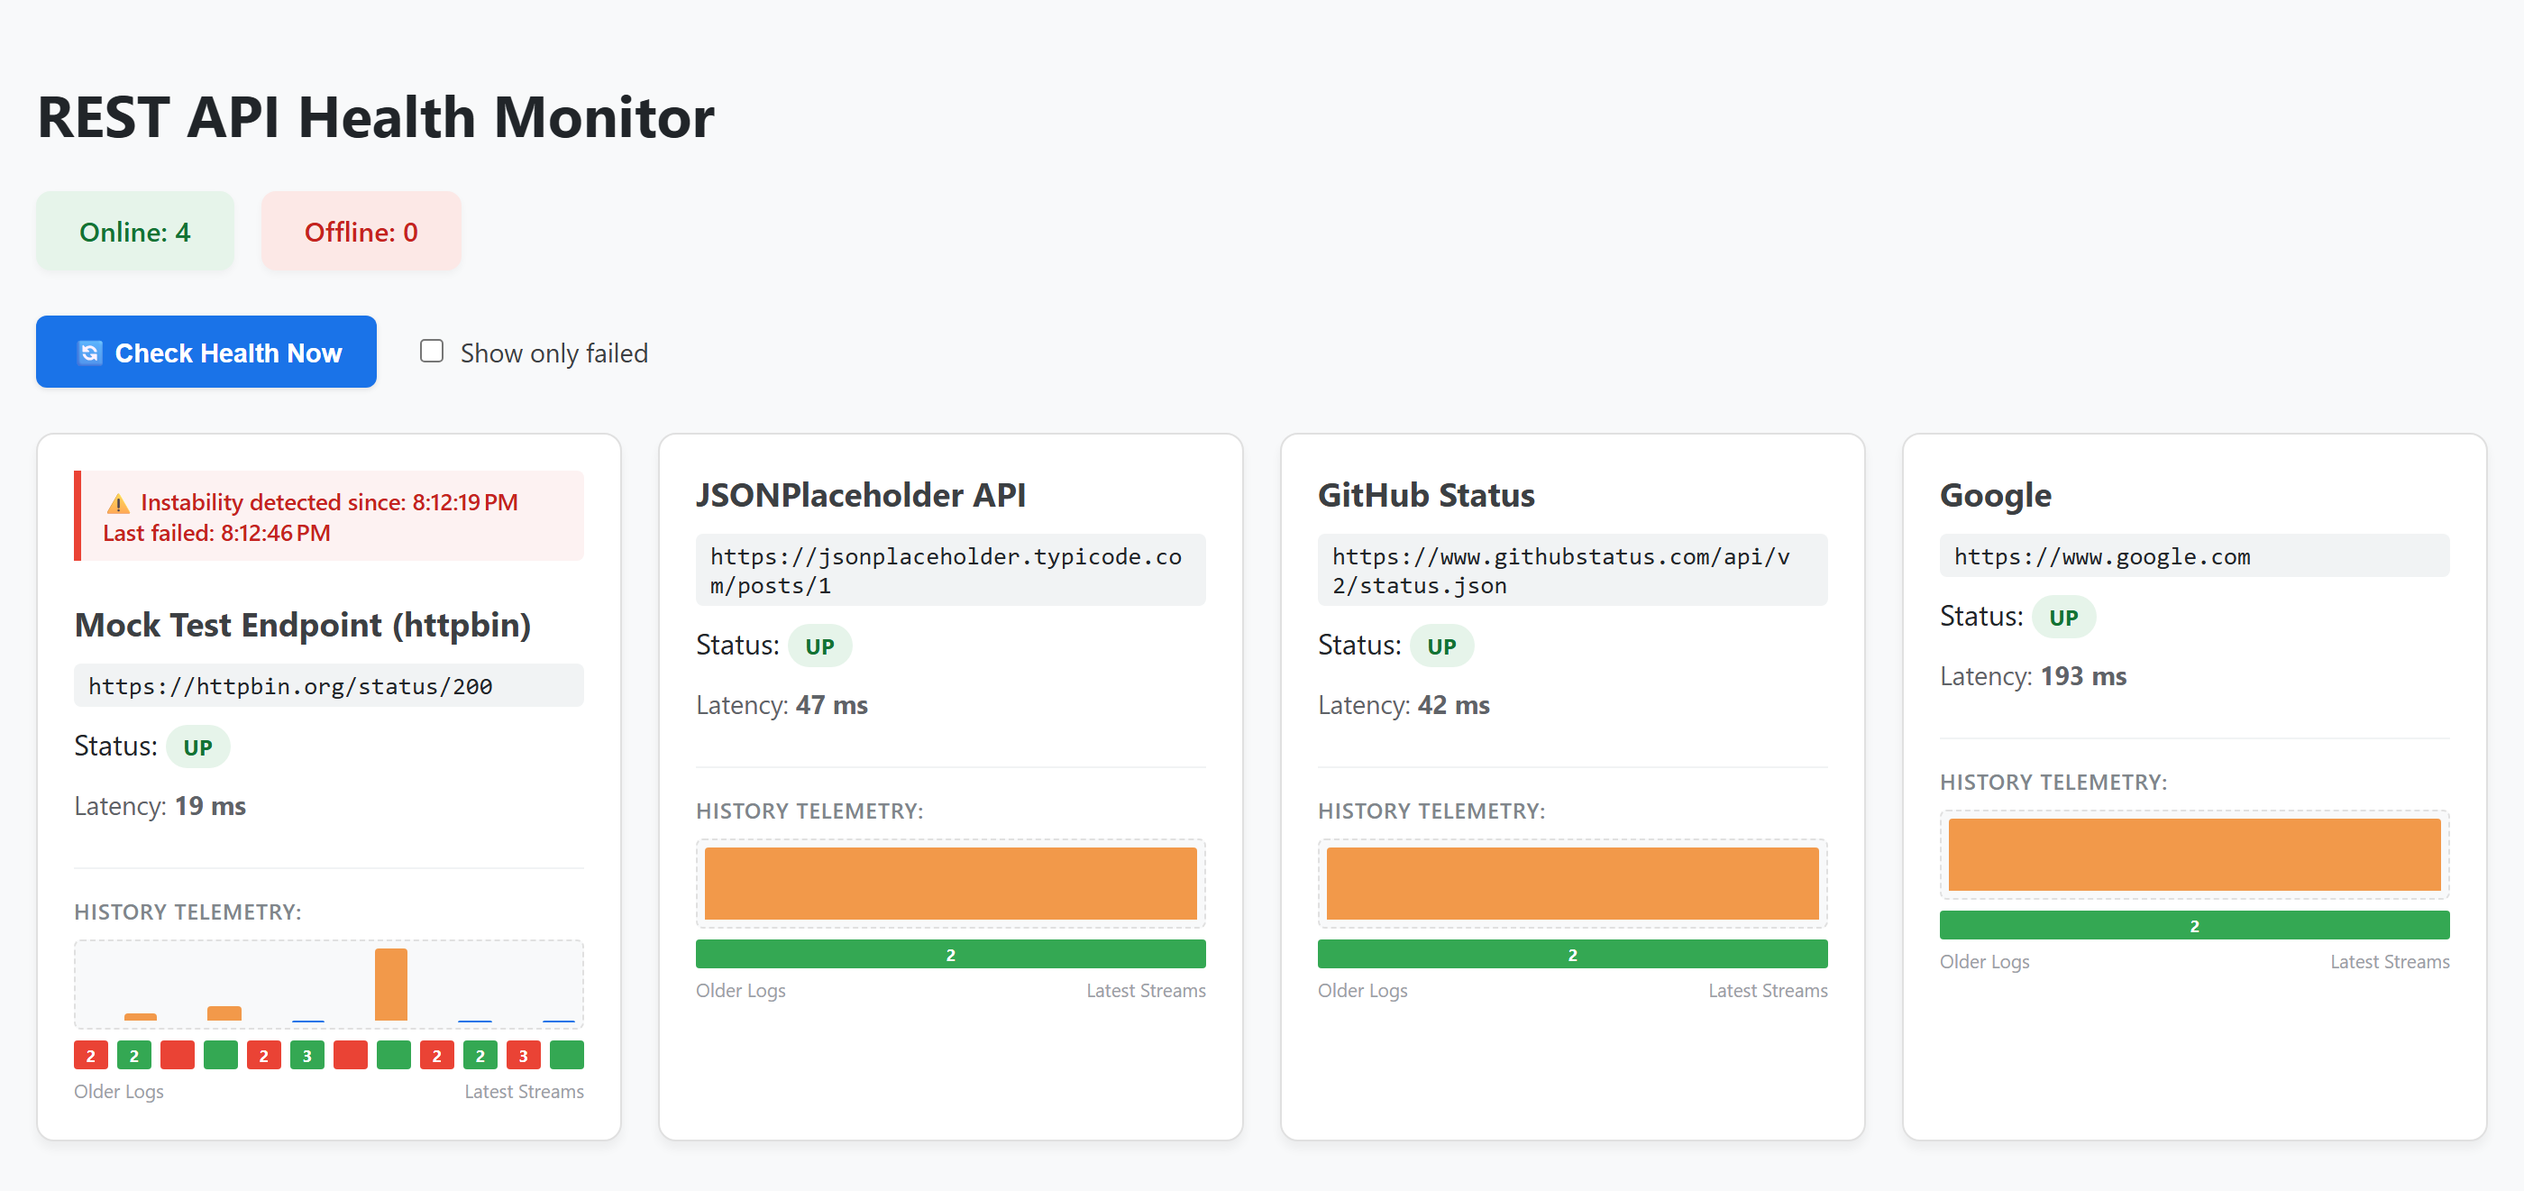
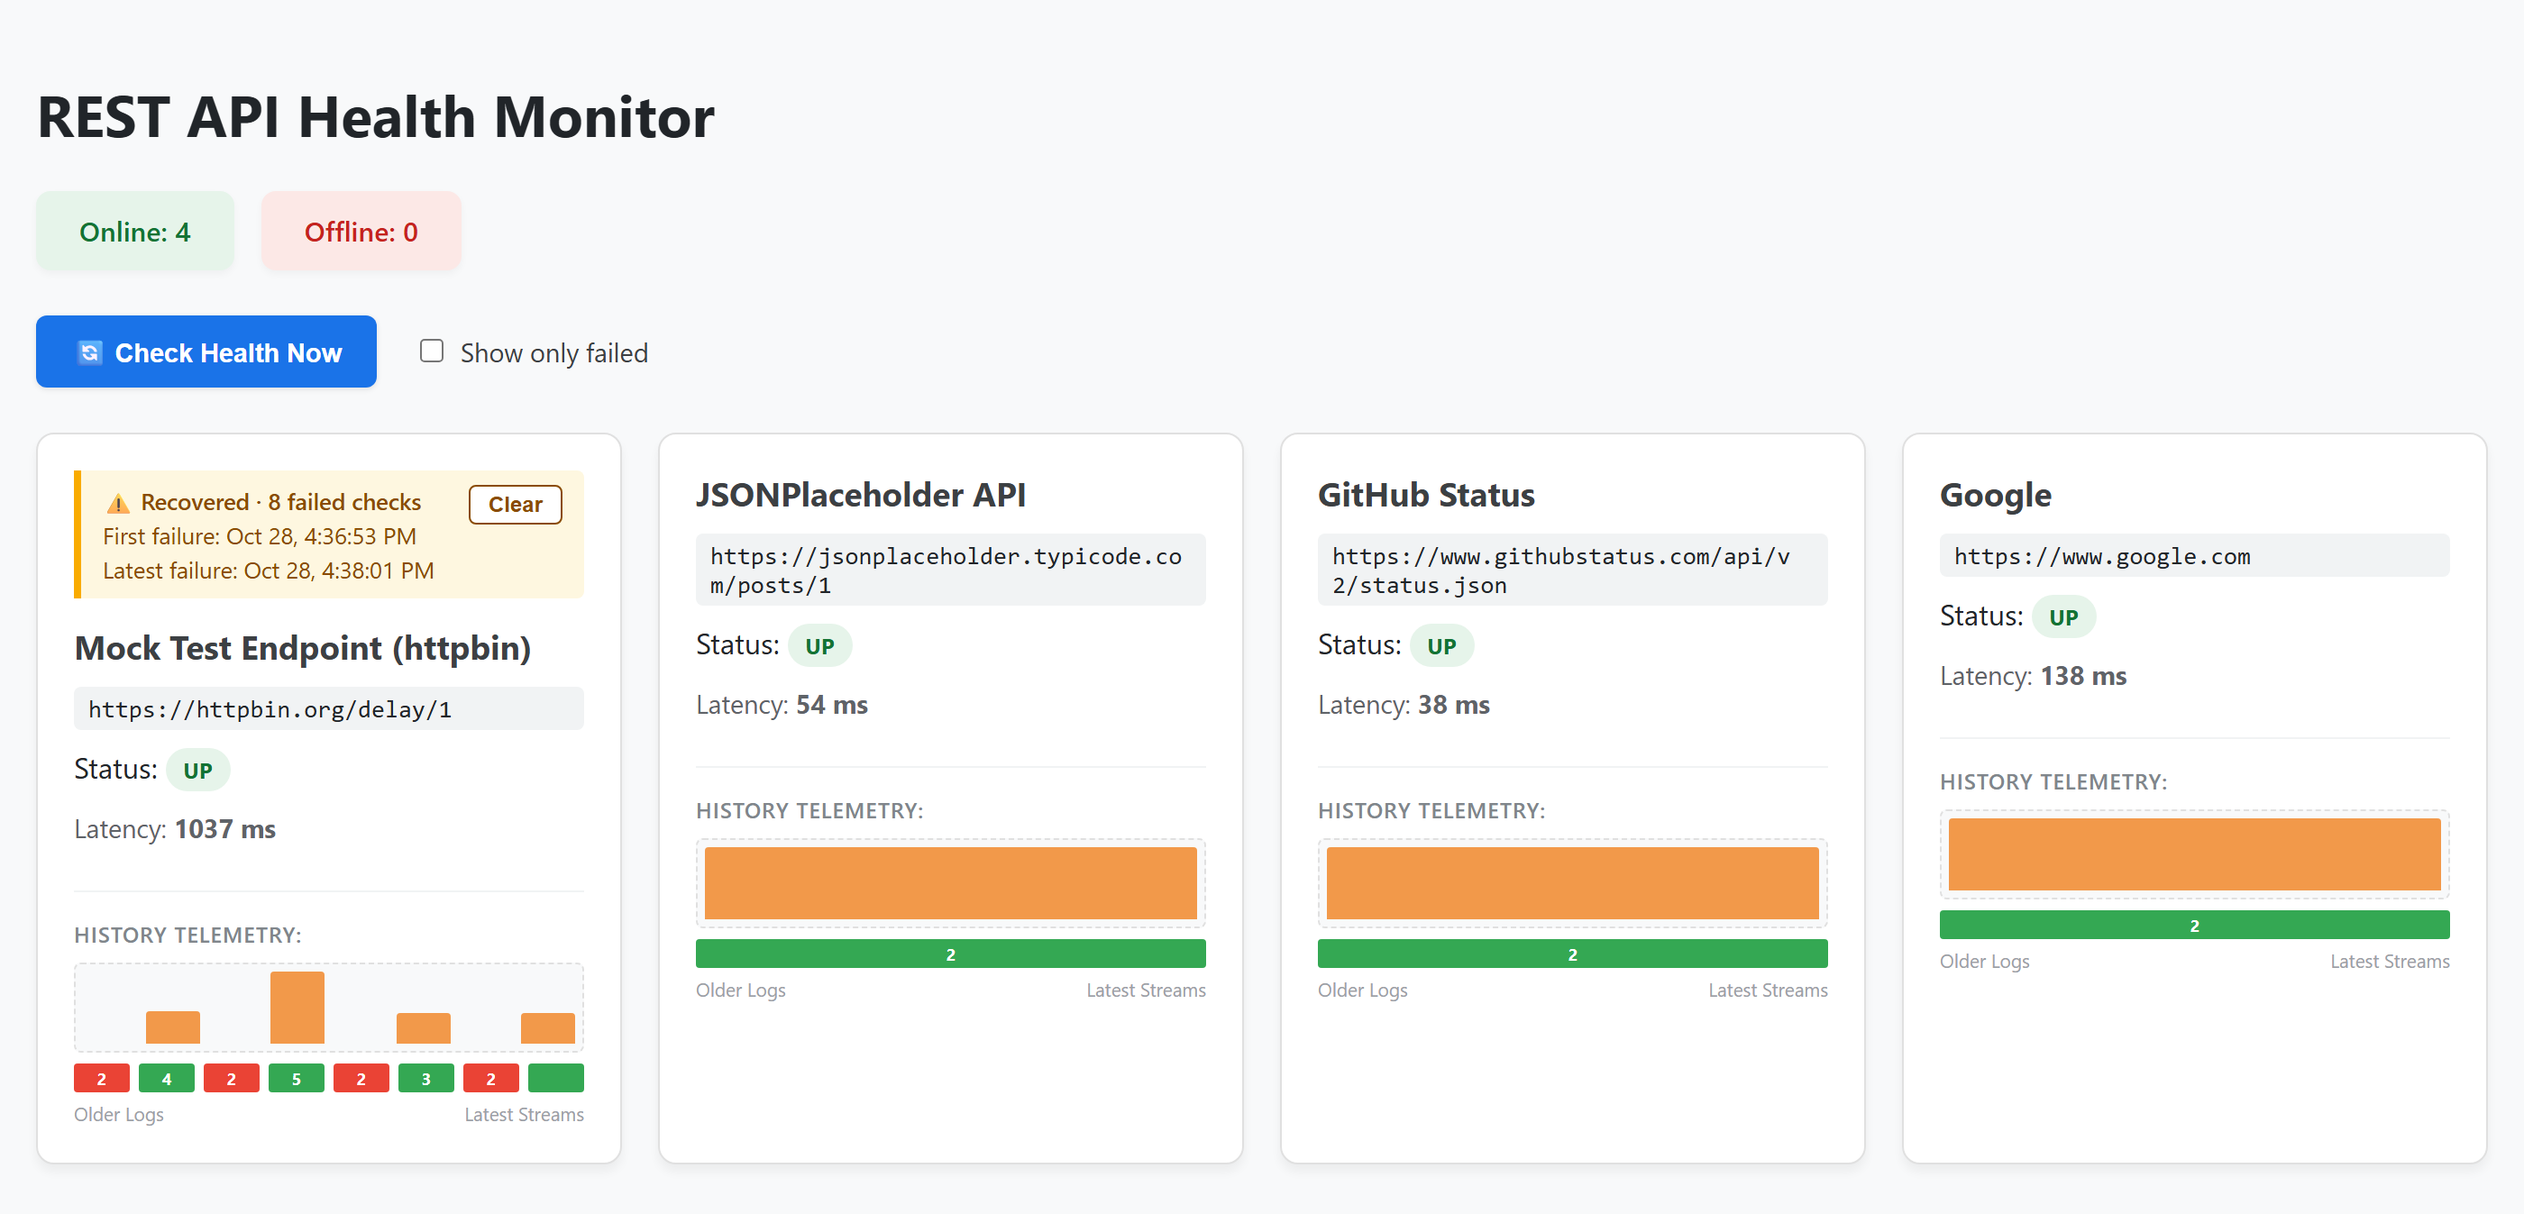
Added first failure, last failure and clear button
Replaced picture as well

diff --git a/Projects/rest-api-health-monitor/src/src/app/core/services/endpoint-state.spec.ts b/Projects/rest-api-health-monitor/src/src/app/core/services/endpoint-state.spec.ts
@@ -14,17 +14,107 @@
 // along with this program.  If not, see <https://www.gnu.org/licenses/>.
 
 import { TestBed } from '@angular/core/testing';
+import { afterEach, vi } from 'vitest';
 import { EndpointState } from './endpoint-state';
+
+// Fake fetch: serves endpoints.json, then answers each health check from `pingResults`
+// ('up' -> HTTP 200, 'down' -> network error) keyed by URL.
+const CONFIG = [
+  { id: '2', name: 'Site A', url: 'https://a.example' },
+  { id: '3', name: 'Site B', url: 'https://b.example' }
+];
+let pingResults: Record<string, 'up' | 'down'>;
+
+function stubFetch(): void {
+  vi.stubGlobal('fetch', vi.fn(async (url: string) => {
+    if (url === 'endpoints.json') return { ok: true, status: 200, json: async () => CONFIG };
+    if (pingResults[url] === 'down') throw new TypeError('Failed to fetch');
+    return { ok: true, status: 200, type: 'basic' };
+  }));
+}
 
 describe('EndpointState', () => {
   let service: EndpointState;
 
-  beforeEach(() => {
+  const find = (id: string) => service.endpoints().find(e => e.id === id)!;
+
+  // Forces a check of every endpoint and waits until each has recorded one more result
+  async function runCheck(): Promise<void> {
+    const before = service.endpoints().map(e => e.history.reduce((n, h) => n + h.checkCount, 0));
+    service.checkHealth(true);
+    await vi.waitFor(() => {
+      const after = service.endpoints().map(e => e.history.reduce((n, h) => n + h.checkCount, 0));
+      expect(after.every((n, i) => n === before[i] + 1)).toBe(true);
+    });
+  }
+
+  beforeEach(async () => {
+    pingResults = { 'https://a.example': 'up', 'https://b.example': 'up' };
+    stubFetch();
     TestBed.configureTestingModule({});
     service = TestBed.inject(EndpointState);
+    await service.loadEndpoints();
+  });
+
+  afterEach(() => {
+    vi.unstubAllGlobals();
   });
 
   it('should be created', () => {
     expect(service).toBeTruthy();
+    expect(service.endpoints().length).toBe(2);
+  });
+
+  it('records the first failure and updates the latest failure on each DOWN check', async () => {
+    pingResults['https://a.example'] = 'down';
+    await runCheck();
+    const first = find('2').firstFailedAt;
+    expect(first).toBeInstanceOf(Date);
+    expect(find('2').lastFailedAt).toBe(first);
+    expect(find('2').failureCount).toBe(1);
+
+    await runCheck();
+    expect(find('2').firstFailedAt).toBe(first);
+    expect(find('2').lastFailedAt).not.toBe(first);
+    expect(find('2').failureCount).toBe(2);
+  });
+
+  it('keeps the failure record after the endpoint recovers', async () => {
+    pingResults['https://a.example'] = 'down';
+    await runCheck();
+    const { firstFailedAt, lastFailedAt } = find('2');
+
+    pingResults['https://a.example'] = 'up';
+    for (let i = 0; i < 5; i++) await runCheck();
+
+    expect(find('2').status).toBe('UP');
+    expect(find('2').firstFailedAt).toBe(firstFailedAt);
+    expect(find('2').lastFailedAt).toBe(lastFailedAt);
+    expect(find('2').failureCount).toBe(1);
+  });
+
+  it('clearFailures only clears the chosen endpoint', async () => {
+    pingResults = { 'https://a.example': 'down', 'https://b.example': 'down' };
+    await runCheck();
+
+    service.clearFailures('2');
+
+    expect(find('2').firstFailedAt).toBeNull();
+    expect(find('2').lastFailedAt).toBeNull();
+    expect(find('2').failureCount).toBe(0);
+    expect(find('3').firstFailedAt).toBeInstanceOf(Date);
+    expect(find('3').failureCount).toBe(1);
+  });
+
+  it('starts a new record when an endpoint fails again after being cleared', async () => {
+    pingResults['https://a.example'] = 'down';
+    await runCheck();
+    const oldFirst = find('2').firstFailedAt;
+    service.clearFailures('2');
+
+    await runCheck();
+    expect(find('2').firstFailedAt).toBeInstanceOf(Date);
+    expect(find('2').firstFailedAt).not.toBe(oldFirst);
+    expect(find('2').failureCount).toBe(1);
   });
 });

diff --git a/Projects/rest-api-health-monitor/src/src/app/core/services/endpoint-state.ts b/Projects/rest-api-health-monitor/src/src/app/core/services/endpoint-state.ts
@@ -31,7 +31,6 @@ const REAL_CHECK_INTERVAL_MS = 60000;
 // Timer ticks can fire a few ms early; without slack the mock would skip every other tick
 const INTERVAL_SLACK_MS = 500;
 const MAX_HISTORY_BLOCKS = 12;
-const CHECKS_TO_RESOLVE_INCIDENT = 3;
 
 interface PingOutcome {
   status: 'UP' | 'DOWN';
@@ -79,8 +78,9 @@ export class EndpointState {
         status: 'PENDING',
         responseTime: 0,
         history: [],
-        incidentStartedAt: null,
-        lastFailedAt: null
+        firstFailedAt: null,
+        lastFailedAt: null,
+        failureCount: 0
       })));
     } catch (error) {
       // Leave the list empty so the page shows "No endpoints currently being monitored."
@@ -114,6 +114,22 @@ export class EndpointState {
         .catch(error => this.logger.error(LOG_SOURCE, `Unexpected error checking '${endpoint.name}'`, error))
         .finally(() => this.inFlight.delete(endpoint.id));
     }
+  }
+
+  // Called from a card's Clear button: forgets that endpoint's recorded failures.
+  // If it is still DOWN, the next failed check starts a new record.
+  public clearFailures(id: string): void {
+    this.endpointsSignal.update(currentList =>
+      currentList.map(endpoint => {
+        if (endpoint.id !== id) return endpoint;
+        this.logger.info(LOG_SOURCE, `Failure record cleared by user for '${endpoint.name}'`, {
+          firstFailedAt: endpoint.firstFailedAt,
+          lastFailedAt: endpoint.lastFailedAt,
+          failureCount: endpoint.failureCount
+        });
+        return { ...endpoint, firstFailedAt: null, lastFailedAt: null, failureCount: 0 };
+      })
+    );
   }
 
   // Randomly picks a healthy, failing or slow httpbin route
@@ -187,19 +203,12 @@ export class EndpointState {
           if (updatedHistory.length > MAX_HISTORY_BLOCKS) updatedHistory.shift();
         }
 
-        // 🚨 INCIDENT TRACKING ANCHOR LOGIC
-        // The anchor is set on the first DOWN and stays locked through rapid flips.
-        // It is only cleared once the current UP streak reaches a few checks in a row.
-        let lastIncidentStart = endpoint.incidentStartedAt;
-        if (newStatus === 'DOWN' && !lastIncidentStart) {
-          lastIncidentStart = new Date();
-          this.logger.warn(LOG_SOURCE, `Incident started for '${endpoint.name}'`);
-        } else if (newStatus === 'UP' && lastIncidentStart) {
-          const currentBlock = updatedHistory[updatedHistory.length - 1];
-          if (currentBlock.checkCount >= CHECKS_TO_RESOLVE_INCIDENT) {
-            this.logger.info(LOG_SOURCE, `Incident resolved for '${endpoint.name}' (started ${lastIncidentStart.toISOString()})`);
-            lastIncidentStart = null; // Incident fully resolved! Clear the anchor.
-          }
+        // 🚨 FAILURE RECORD
+        // First and latest failure are kept until the user clears them; recovery never resets them.
+        const isDown = newStatus === 'DOWN';
+        const now = new Date();
+        if (isDown && !endpoint.firstFailedAt) {
+          this.logger.warn(LOG_SOURCE, `First failure recorded for '${endpoint.name}'`);
         }
 
         return {
@@ -209,8 +218,9 @@ export class EndpointState {
           status: newStatus,
           responseTime: newLatency,
           history: updatedHistory,
-          incidentStartedAt: lastIncidentStart,
-          lastFailedAt: newStatus === 'DOWN' ? new Date() : endpoint.lastFailedAt
+          firstFailedAt: isDown ? (endpoint.firstFailedAt ?? now) : endpoint.firstFailedAt,
+          lastFailedAt: isDown ? now : endpoint.lastFailedAt,
+          failureCount: endpoint.failureCount + (isDown ? 1 : 0)
         };
       })
     );

diff --git a/Projects/rest-api-health-monitor/src/src/app/app.html b/Projects/rest-api-health-monitor/src/src/app/app.html
@@ -43,17 +43,22 @@
   @for (item of visibleEndpoints(); track item.id) {
     <div class="status-card">
       
-      <!-- 🚨 1. NEW CHANGE: Incident Alert Banner at the top of the card -->
-      @if (item.incidentStartedAt) {
-        <div style="background-color: #fdf2f2; border-left: 4px solid #ea4335; padding: 8px 12px; margin-bottom: 12px; font-size: 0.8rem; color: #c5221f; border-radius: 0 4px 4px 0; font-weight: 500;">
-          ⚠ Instability detected since: {{ item.incidentStartedAt | date:'mediumTime' }}
-          @if (item.status === 'UP' && item.lastFailedAt) {
-            <br />Last failed: {{ item.lastFailedAt | date:'mediumTime' }}
-          }
-        </div>
-      } @else if (item.lastFailedAt) {
-        <div class="last-failed">
-          Last failed: {{ item.lastFailedAt | date:'mediumTime' }}
+      <!-- 🚨 1. Failure record: stays until the user clears it (red while DOWN, amber once recovered) -->
+      @if (item.firstFailedAt) {
+        <div class="failure-banner" [class.recovered]="item.status !== 'DOWN'">
+          <div class="failure-details">
+            <div class="failure-title">
+              ⚠ {{ item.status === 'DOWN' ? 'Failing now' : 'Recovered' }}
+              · {{ item.failureCount }} failed {{ item.failureCount === 1 ? 'check' : 'checks' }}
+            </div>
+            <div>First failure: {{ item.firstFailedAt | date:'MMM d, h:mm:ss a' }}</div>
+            <div>Latest failure: {{ item.lastFailedAt | date:'MMM d, h:mm:ss a' }}</div>
+          </div>
+          <button type="button" class="btn-clear" (click)="onClearFailures(item.id)"
+            [attr.aria-label]="'Clear recorded failures for ' + item.name"
+            title="Clear the recorded failures for this monitor">
+            Clear
+          </button>
         </div>
       }
 

diff --git a/Projects/rest-api-health-monitor/src/src/app/app.css b/Projects/rest-api-health-monitor/src/src/app/app.css
@@ -76,11 +76,52 @@
   user-select: none;
 }
 
-/* Shown on recovered cards so the last failure isn't lost when the banner clears */
-.last-failed {
-  font-size: 0.8rem;
-  color: #80868b;
+/* Failure record banner: red while DOWN, amber once recovered; cleared only by the user */
+.failure-banner {
+  display: flex;
+  align-items: flex-start;
+  justify-content: space-between;
+  gap: 10px;
+  background-color: #fdf2f2;
+  border-left: 4px solid #ea4335;
+  border-radius: 0 4px 4px 0;
+  padding: 8px 12px;
   margin-bottom: 4px;
+  font-size: 0.8rem;
+  color: #c5221f;
+}
+
+.failure-banner.recovered {
+  background-color: #fef7e0;
+  border-left-color: #f9ab00;
+  color: #8a4b00;
+}
+
+.failure-details {
+  display: flex;
+  flex-direction: column;
+  gap: 2px;
+}
+
+.failure-title {
+  font-weight: 600;
+}
+
+.btn-clear {
+  flex-shrink: 0;
+  background: white;
+  color: inherit;
+  border: 1px solid currentColor;
+  border-radius: 4px;
+  padding: 3px 10px;
+  font-size: 0.75rem;
+  font-weight: 600;
+  cursor: pointer;
+}
+
+.btn-clear:hover {
+  background-color: rgba(255, 255, 255, 0.6);
+  text-decoration: underline;
 }
 
 /* Card Workspace Grid */

diff --git a/Projects/rest-api-health-monitor/src/src/app/models/endpoint.model.ts b/Projects/rest-api-health-monitor/src/src/app/models/endpoint.model.ts
@@ -34,6 +34,8 @@ export interface ApiEndpoint {
   status: 'UP' | 'DOWN' | 'PENDING';
   responseTime: number;
   history: PingResult[];
-  incidentStartedAt: Date | null; // Tracks the true start of a multi-flip unstable incident
-  lastFailedAt: Date | null;      // Most recent DOWN check; kept after the incident resolves
+  // Failure record: never reset automatically, only when the user clicks Clear on the card
+  firstFailedAt: Date | null;     // First DOWN check since the last Clear
+  lastFailedAt: Date | null;      // Most recent DOWN check
+  failureCount: number;           // DOWN checks since the last Clear
 }

diff --git a/Projects/rest-api-health-monitor/src/src/app/app.ts b/Projects/rest-api-health-monitor/src/src/app/app.ts
@@ -48,6 +48,10 @@ export class App implements OnInit, OnDestroy {
     this.showFailedOnly.set((event.target as HTMLInputElement).checked);
   }
 
+  public onClearFailures(id: string): void {
+    this.endpointState.clearFailures(id);
+  }
+
    public onCheckNowClick(): void {
     this.endpointState.checkHealth(true);
   }

diff --git a/Projects/rest-api-health-monitor/README.md b/Projects/rest-api-health-monitor/README.md
@@ -19,7 +19,7 @@ An Angular 22 single-page app that pings a configurable list of endpoints, recor
 
 Hosted on **Azure Static Web Apps** (Free tier), so it loads instantly with no warm-up. The checks run in your browser; open DevTools and add `?logLevel=debug` to the URL to watch them.
 
-![REST API Health Monitor dashboard showing four endpoint cards with status, latency charts, status timelines and an incident banner](doc/img/screenshot.png)
+![REST API Health Monitor dashboard showing four endpoint cards with status, latency charts, status timelines and a failure record with a Clear button](doc/img/screenshot.png)
 
 ---
 
@@ -41,7 +41,7 @@ Hosted on **Azure Static Web Apps** (Free tier), so it loads instantly with no w
 - **Scoreboard**: running count of online and offline endpoints.
 - **Latency chart**: per-endpoint bar chart, scaled to that endpoint's slowest result.
 - **Status timeline**: green/red strips, where consecutive checks with the same result merge into one block showing the check count.
-- **Incident tracking**: an "Instability detected" banner from the first failure until the endpoint has been UP for 3 checks in a row (about 6 seconds for the test endpoint, 2–3 minutes for real sites), plus a "Last failed" time that is kept after recovery.
+- **Failure record**: each card keeps the **first** and **latest** failure time and the number of failed checks. The record is never reset automatically, even after the endpoint recovers; it stays until you click that card's **Clear** button. The banner is red while the endpoint is failing and amber once it has recovered.
 - **Failed-only filter**: a checkbox to show only endpoints that are currently DOWN.
 - **JSON configuration**: endpoints live in `public/endpoints.json` and are loaded at runtime.
 - **Built-in test endpoint**: endpoint `1` randomly hits [httpbin.org](https://httpbin.org) success, failure and slow routes so you can see every chart state.
@@ -111,8 +111,8 @@ All logging goes through `Logger` (`src/src/app/core/services/logger.ts`). Messa
 | Level | What is logged |
 |---|---|
 | `error` | `endpoints.json` failed to load; unexpected errors during a check |
-| `warn` | An endpoint went DOWN; an incident started |
-| `info` | Endpoints loaded; recovery; incident resolved |
+| `warn` | An endpoint went DOWN; first failure recorded |
+| `info` | Endpoints loaded; recovery; failure record cleared by the user |
 | `debug` | Every check, with URL, result reason (`HTTP 404`, `timeout`, `network error`…) and latency |
 
 The default level is `debug` in development and `warn` in production builds. To change it:
@@ -143,7 +143,7 @@ rest-api-health-monitor/
             ├── models/
             │   └── endpoint.model.ts
             └── core/services/
-                ├── endpoint-state.ts     Health checks, history, incidents
+                ├── endpoint-state.ts     Health checks, history, failure record
                 └── logger.ts             Levelled console logging
 ```
 

diff --git a/README.md b/README.md
@@ -44,7 +44,7 @@ A live, browser-based dashboard built with **Angular 22** that checks websites a
    ▶ Try Live Demo
 </a>
 
-![REST API Health Monitor dashboard showing four endpoint cards with status, latency charts, status timelines and an incident banner](Projects/rest-api-health-monitor/doc/img/screenshot.png)
+![REST API Health Monitor dashboard showing four endpoint cards with status, latency charts, status timelines and a failure record with a Clear button](Projects/rest-api-health-monitor/doc/img/screenshot.png)
 
 ## Bonjour in WPF
 📁 [`Projects/BonjourInWPF`](Projects/BonjourInWPF)
